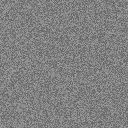
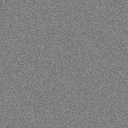
Quieter grain again

Changed region(s): [[0.0, 0.0, 1.0, 1.0], [0.625, 0.5938, 0.6562, 0.6562], [0.6562, 0.5625, 0.6875, 0.5938]]

diff --git a/index.html b/index.html
@@ -9,7 +9,7 @@
 <link rel="preconnect" href="https://fonts.googleapis.com">
 <link rel="preconnect" href="https://fonts.gstatic.com" crossorigin>
 <link rel="stylesheet" href="https://fonts.googleapis.com/css2?family=DM+Sans:opsz,wght@9..40,400;9..40,500;9..40,700&family=Fraunces:opsz,wght@9..144,400;9..144,500&family=JetBrains+Mono:wght@400;700&display=swap">
-<link rel="stylesheet" href="style.css?v=17">
+<link rel="stylesheet" href="style.css?v=18">
 </head>
 <body>
 
@@ -232,7 +232,7 @@ uv run nants-crowd out/&lt;datetime&gt;</code></pre>
 </footer>
 
 <script src="weights.js"></script>
-<script type="module" src="main.js?v=17"></script>
+<script type="module" src="main.js?v=18"></script>
 <script>
   const ticks = document.getElementById("ticks");
   for (let c = 3; c < 16; c++) {

diff --git a/style.css b/style.css
@@ -59,7 +59,7 @@ a { color: inherit; }
   background-color: var(--red);
   /* flat uniform grain: one random grey per pixel, kept crisp rather than
      smoothed, and blended so the red itself never shifts */
-  background-image: url("grain.png?v=17");
+  background-image: url("grain.png?v=18");
   background-size: 128px 128px;
   background-blend-mode: soft-light;
   image-rendering: pixelated;
